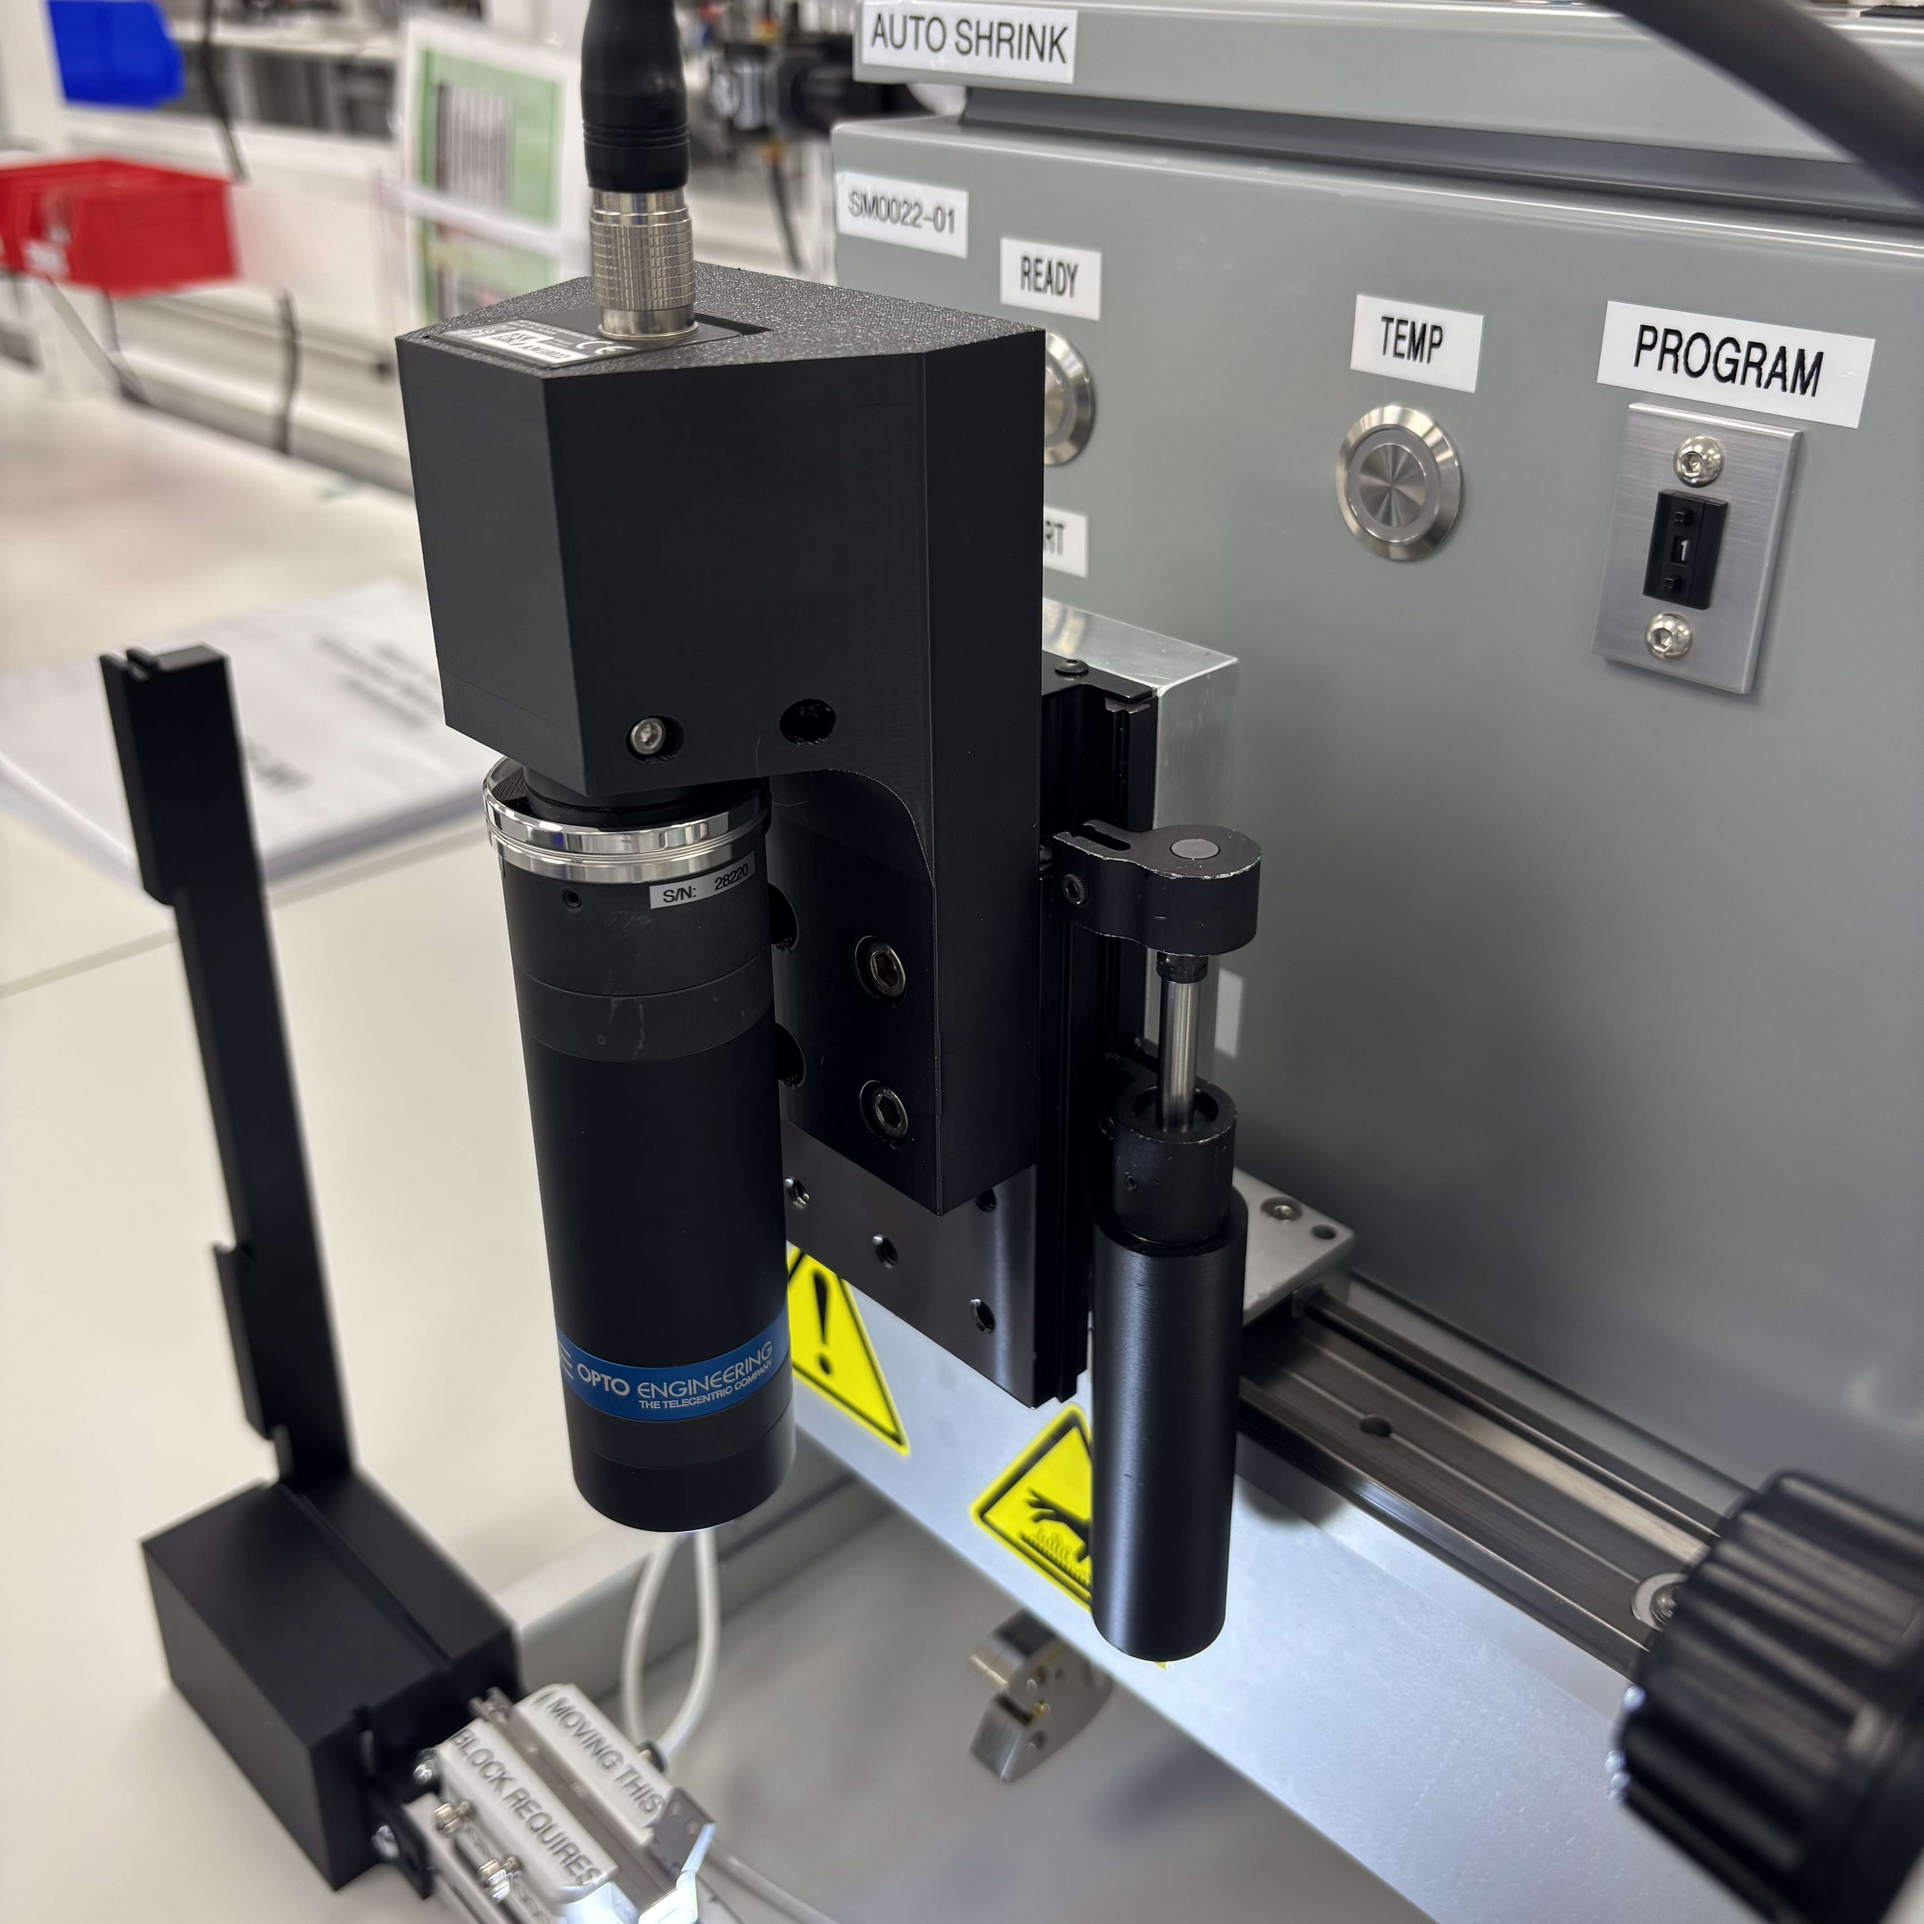
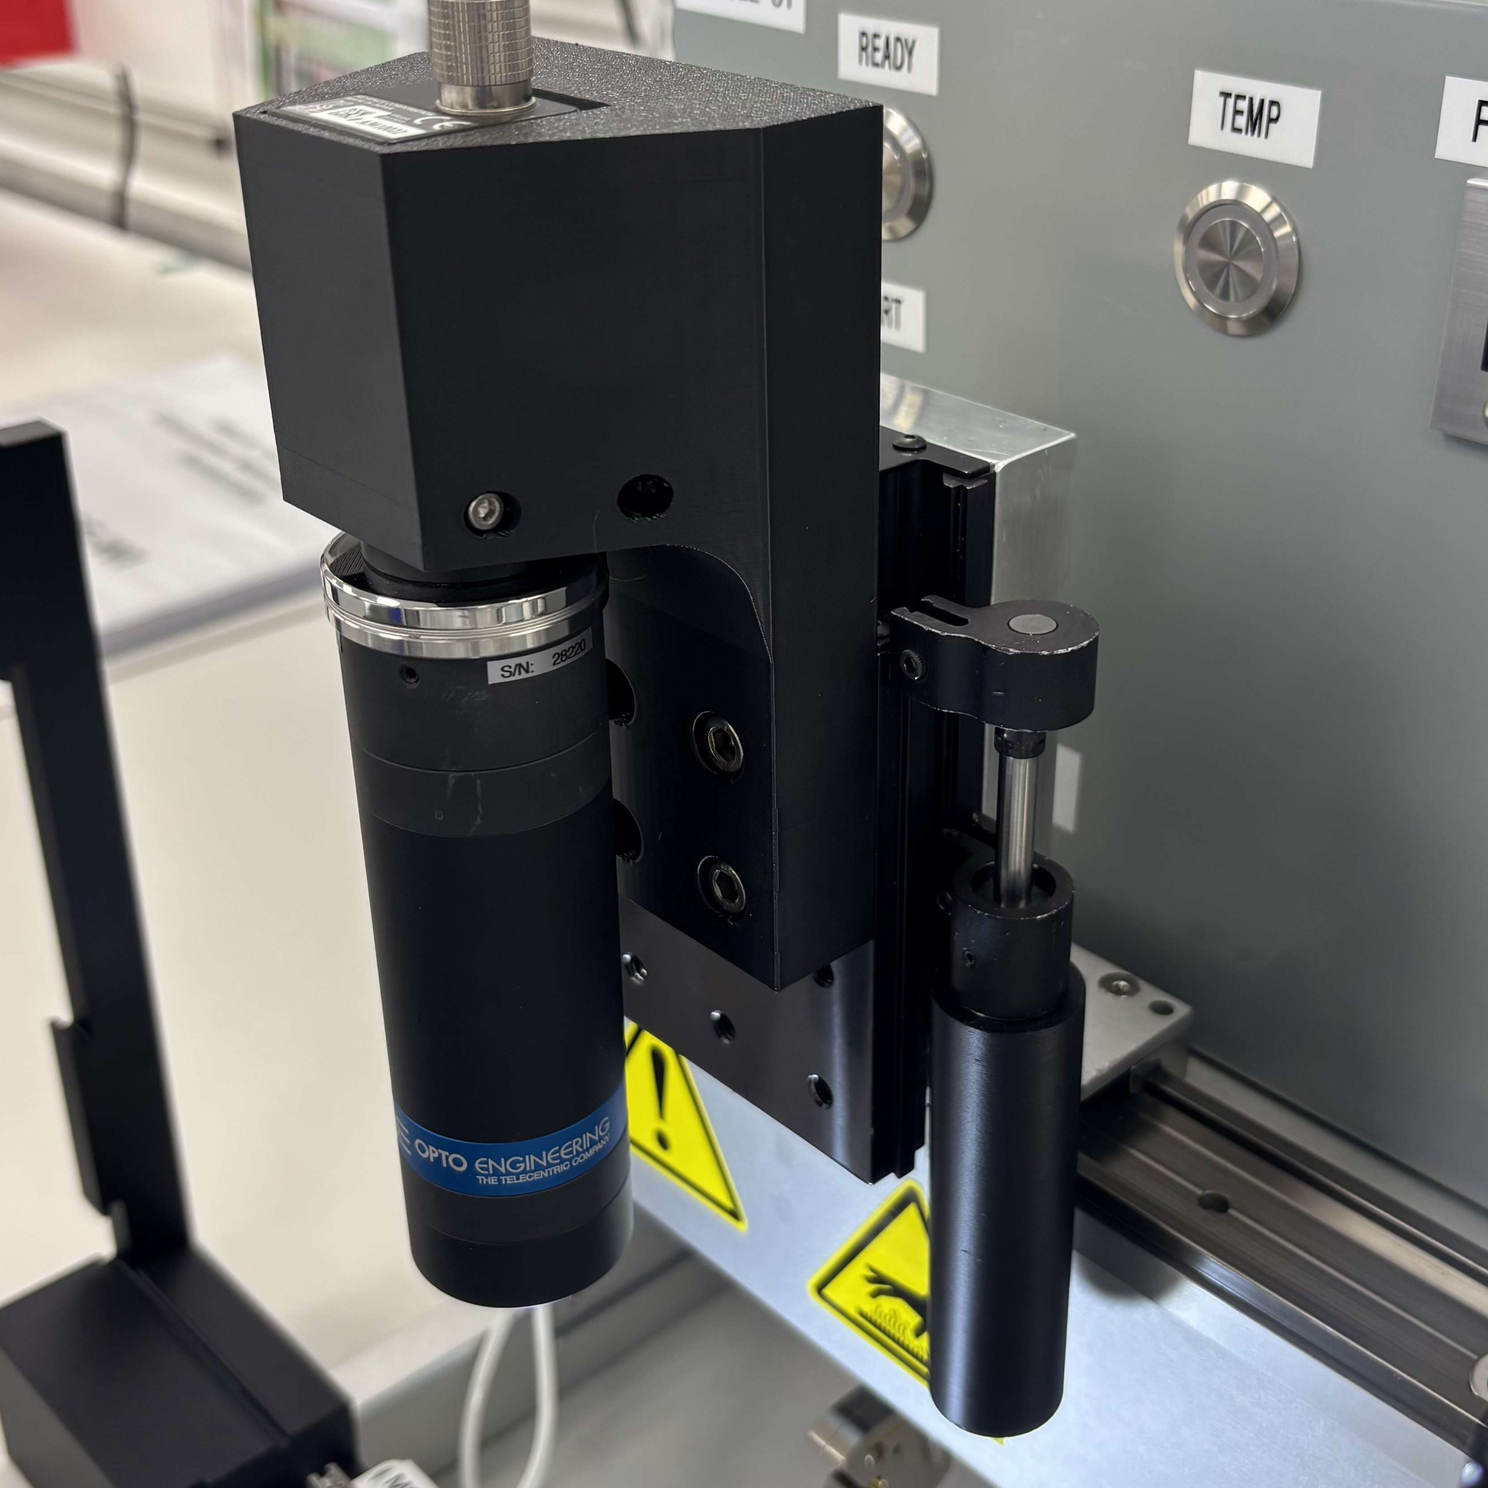
add to project info

diff --git a/_site/projects/1_DBF/index.html b/_site/projects/1_DBF/index.html
@@ -37,7 +37,7 @@
 
 
 
-  <meta property="article:published_time" content="2026-01-22T19:49:05-05:00">
+  <meta property="article:published_time" content="2026-01-22T19:50:34-05:00">
 
 
 

diff --git a/_site/projects/2_RHR/index.html b/_site/projects/2_RHR/index.html
@@ -37,7 +37,7 @@
 
 
 
-  <meta property="article:published_time" content="2026-01-22T19:49:05-05:00">
+  <meta property="article:published_time" content="2026-01-22T19:50:34-05:00">
 
 
 

diff --git a/_site/projects/3D-printed-widgets/index.html b/_site/projects/3D-printed-widgets/index.html
@@ -37,7 +37,7 @@
 
 
 
-  <meta property="article:published_time" content="2026-01-22T19:49:05-05:00">
+  <meta property="article:published_time" content="2026-01-22T19:50:34-05:00">
 
 
 

diff --git a/_site/projects/3_leverless-1/index.html b/_site/projects/3_leverless-1/index.html
@@ -37,7 +37,7 @@
 
 
 
-  <meta property="article:published_time" content="2026-01-22T19:49:05-05:00">
+  <meta property="article:published_time" content="2026-01-22T19:50:34-05:00">
 
 
 

diff --git a/_site/projects/4_leverless-2/index.html b/_site/projects/4_leverless-2/index.html
@@ -37,7 +37,7 @@
 
 
 
-  <meta property="article:published_time" content="2026-01-22T19:49:05-05:00">
+  <meta property="article:published_time" content="2026-01-22T19:50:34-05:00">
 
 
 

diff --git a/_site/projects/5_FEA/index.html b/_site/projects/5_FEA/index.html
@@ -37,7 +37,7 @@
 
 
 
-  <meta property="article:published_time" content="2026-01-22T19:49:05-05:00">
+  <meta property="article:published_time" content="2026-01-22T19:50:34-05:00">
 
 
 

diff --git a/_site/projects/6_autoshrink/index.html b/_site/projects/6_autoshrink/index.html
@@ -37,7 +37,7 @@
 
 
 
-  <meta property="article:published_time" content="2026-01-22T19:49:05-05:00">
+  <meta property="article:published_time" content="2026-01-22T19:50:34-05:00">
 
 
 

diff --git a/_site/projects/7_lifecycle-tester/index.html b/_site/projects/7_lifecycle-tester/index.html
@@ -37,7 +37,7 @@
 
 
 
-  <meta property="article:published_time" content="2026-01-22T19:49:05-05:00">
+  <meta property="article:published_time" content="2026-01-22T19:50:34-05:00">
 
 
 
